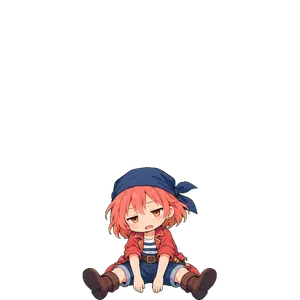
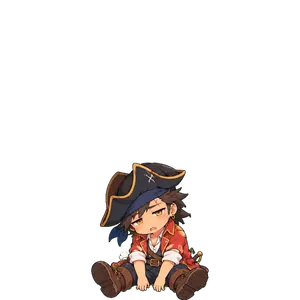
feat: Anime Studio page shows the ten companions, suzu first
New girls (suzu, hotaru, hibana, nagi, ran), kaito and shiro redrawn,
11 faces, and copy that leads with your own photo companions.

Changed region(s): [[0.27, 0.54, 0.72, 1.0]]

diff --git a/animestudio/index.html b/animestudio/index.html
@@ -155,7 +155,7 @@ footer a:hover{color:var(--ink)}
 <div class="wrap">
 <div class="hero">
 <div>
-<div class="mono">Wear OS 6 · 6 faces · 1 app · ∞ scenes</div>
+<div class="mono">Wear OS 6 · 11 faces · your photos · ∞ scenes</div>
 <h1>Living anime faces<i>.</i></h1>
 <p class="lede">The town on your watch follows the season and the hour, and your companion reacts to your day: asleep at night, flagging on low battery, running when you work out. Make a face yours on your phone; it's on your wrist in seconds.</p>
 <div class="actions">
@@ -187,14 +187,14 @@ footer a:hover{color:var(--ink)}
 </div>
 </div>
 <div class="wrap labelwrap">
-<div class="label"><h2 id="faceName">hayate 疾風</h2><span class="mono live" id="liveLabel"><i></i>Live · tap the watch for always-on</span></div>
+<div class="label"><h2 id="faceName">suzu 鈴</h2><span class="mono live" id="liveLabel"><i></i>Live · tap the watch for always-on</span></div>
 </div>
 </div>
 
 <div class="wrap">
 <div class="panel">
 <div class="group">
-<div class="mono"><span>Companion</span><span>AS-01…05</span></div>
+<div class="mono"><span>Companion</span><span>AS-01…10</span></div>
 <div class="chips" id="pals"></div>
 <div class="mono" style="margin:18px 0 10px"><span>Mood</span><span>First match wins</span></div>
 <div class="chips" id="moods"></div>
@@ -218,7 +218,7 @@ footer a:hover{color:var(--ink)}
 <section id="how">
 <div class="eyebrow rv"><h2>How it works</h2><span class="mono">Three steps</span></div>
 <div class="steps">
-<div class="step rv"><span class="mono">01 · Pick</span><h3>Choose a face</h3><p>Five companions, each with their own clock, plus one that starts from your own photo. The first face is free to try on your wrist.</p></div>
+<div class="step rv"><span class="mono">01 · Pick</span><h3>Choose a face</h3><p>Ten companions, each with their own personality and clock, plus one that starts from your own photo. The first face is free to try on your wrist.</p></div>
 <div class="step rv" style="--d:.08s"><span class="mono">02 · Make it yours</span><h3>Edit on your phone</h3><p>Scene, companion, layout, colors, fonts and the always-on screen. Preview any season, hour or mood before you send it.</p></div>
 <div class="step rv" style="--d:.16s"><span class="mono">03 · Apply</span><h3>On your wrist</h3><p>Your phone builds the face and sends it to the watch over Bluetooth. The watch keeps your last five, a swipe away in its tile.</p></div>
 </div>
@@ -239,7 +239,7 @@ footer a:hover{color:var(--ink)}
 <section style="padding-top:0">
 <div class="price rv">
 <div class="big">$4.99<small>once</small></div>
-<div><p>AS-01 is free, on your wrist, for good. One payment unlocks every face, editing and photo companions, across your devices on the same Google account.</p>
+<div><p>AS-01 is free, on your wrist, for good. One payment brings your own companions to life, plus every face and full editing, across your devices on the same Google account.</p>
 <ul class="mono"><li>No ads</li><li>No subscription</li><li>No account</li></ul></div>
 </div>
 </section>
@@ -275,11 +275,16 @@ var reduce=matchMedia("(prefers-reduced-motion: reduce)").matches;
 var ART="art/";
 // the app's roster and moods (face/FaceSpec.kt): palette = accent, text, scrim
 var PALS=[
- {id:"hayate",label:"hayate 疾風",code:"AS-01",accent:"#4A9FE0",text:"#F4EFE6",scrim:"#1A1D24"},
+ {id:"suzu",label:"suzu 鈴",code:"AS-01",accent:"#E0457B",text:"#2A1A20",scrim:"#FFF3F5"},
  {id:"kaito",label:"kaito 海斗",code:"AS-02",accent:"#E8574A",text:"#1B2440",scrim:"#FFF4EC"},
- {id:"tora",label:"tora 虎",code:"AS-03",accent:"#A3243A",text:"#F5EFE6",scrim:"#1A1416"},
+ {id:"hotaru",label:"hotaru 蛍",code:"AS-03",accent:"#F2C94C",text:"#F5F0DC",scrim:"#0E1426"},
  {id:"shiro",label:"shiro 白",code:"AS-04",accent:"#5B6BBF",text:"#1C2040",scrim:"#F2F3FA"},
- {id:"kishi",label:"kishi 騎士",code:"AS-05",accent:"#1F9E9A",text:"#F7F3E8",scrim:"#0F1E24"}];
+ {id:"hibana",label:"hibana 火花",code:"AS-05",accent:"#FF6B1A",text:"#F7F1E8",scrim:"#1A1210"},
+ {id:"hayate",label:"hayate 疾風",code:"AS-06",accent:"#4A9FE0",text:"#F4EFE6",scrim:"#1A1D24"},
+ {id:"nagi",label:"nagi 凪",code:"AS-07",accent:"#F2B705",text:"#F2F0E6",scrim:"#141B2E"},
+ {id:"kishi",label:"kishi 騎士",code:"AS-08",accent:"#1F9E9A",text:"#F7F3E8",scrim:"#0F1E24"},
+ {id:"ran",label:"ran 嵐",code:"AS-09",accent:"#8B5CF6",text:"#F3EEFF",scrim:"#1A1030"},
+ {id:"tora",label:"tora 虎",code:"AS-10",accent:"#A3243A",text:"#F5EFE6",scrim:"#1A1416"}];
 var MOODS=[
  {id:"idle",label:"idle",mark:"",note:"Nothing to react to: they idle."},
  {id:"sleep",label:"sleep",mark:"眠",note:"Bedtime (23:00 to 07:00): asleep."},
